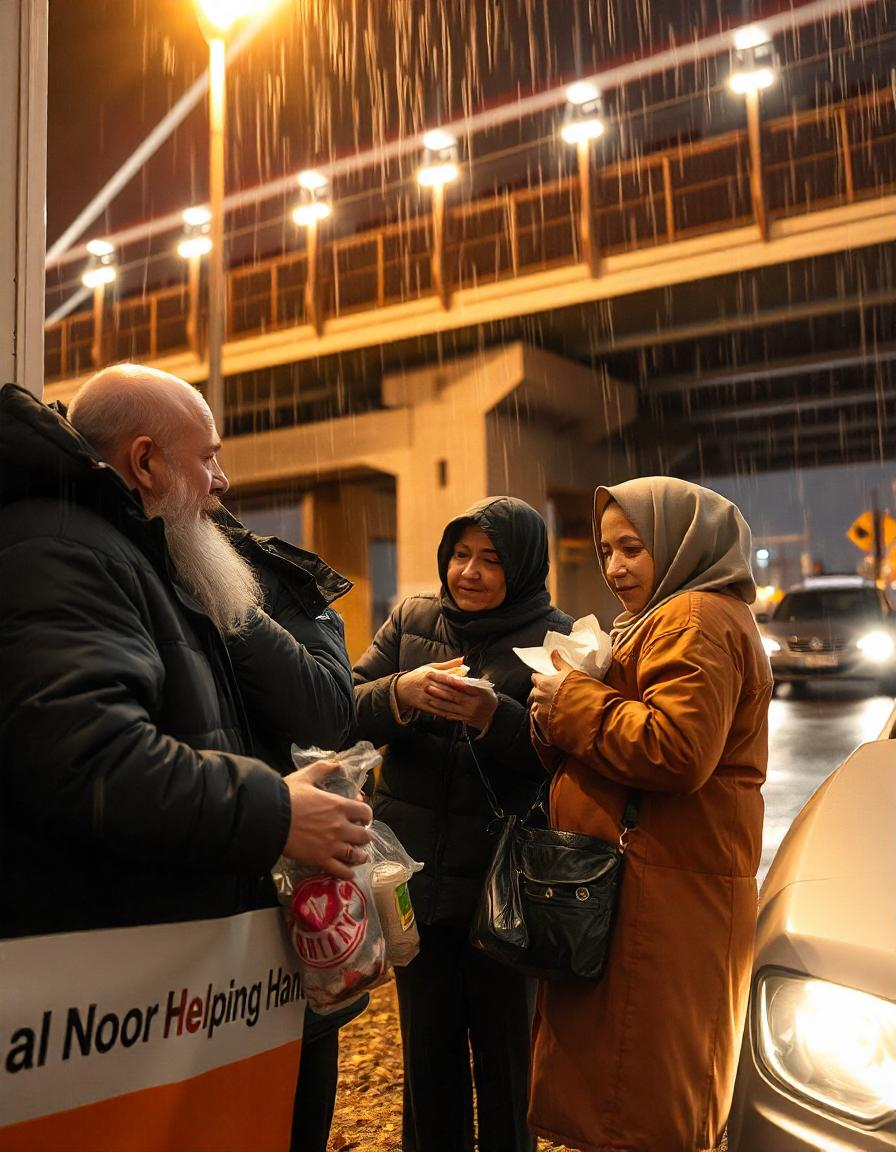
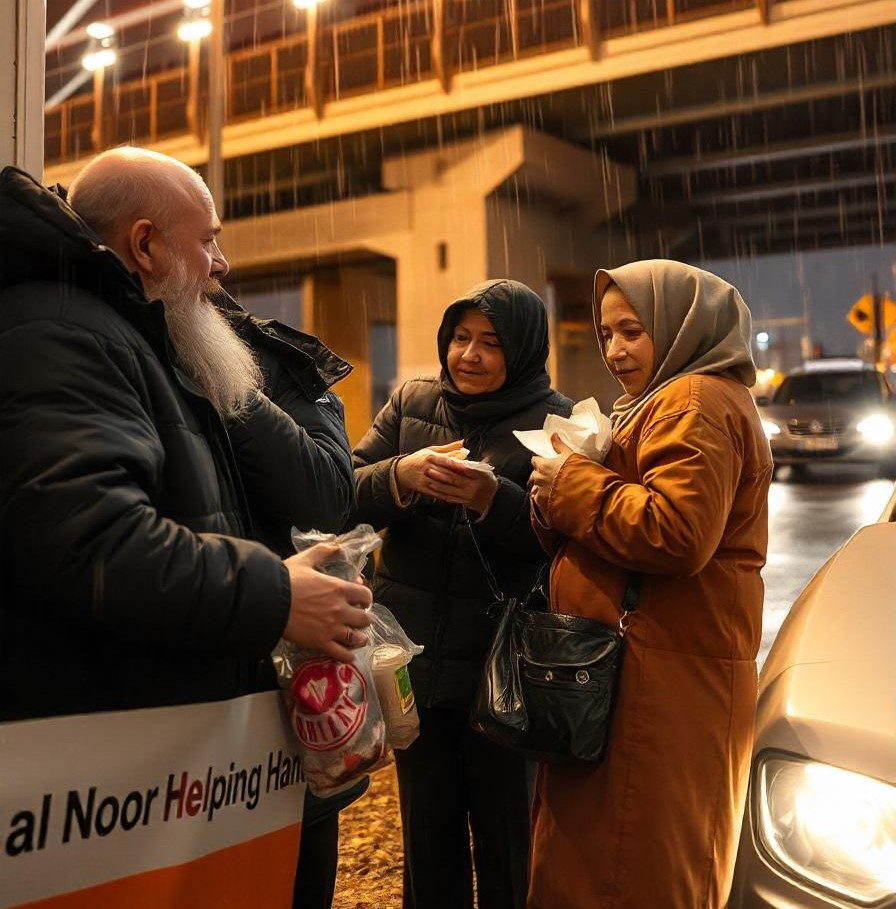
photos update

diff --git a/index.html b/index.html
@@ -655,7 +655,7 @@
         <div class="container">
 
           <figure class="about-banner">
-            <img src="./assets/images/about-banner.png" width="800" height="580" loading="lazy" alt="about banner"
+            <img src="./assets/images/food idstribution.jpg" width="800" height="580" loading="lazy" alt="about banner"
               class="w-100">
           </figure>
 
